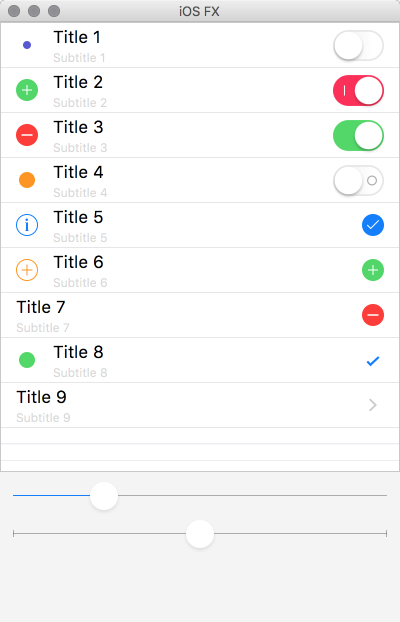
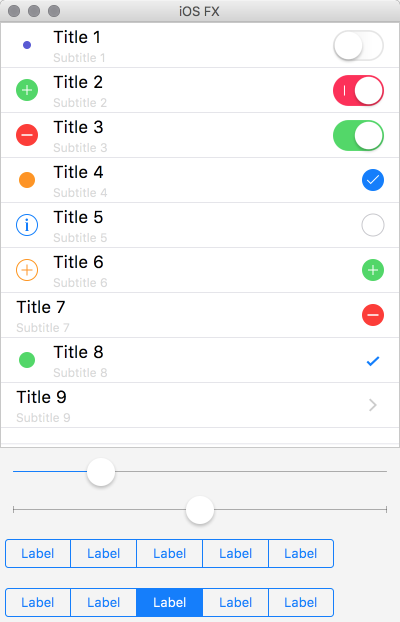
Added an IosSegmentedButtonBar

diff --git a/src/main/resources/eu/hansolo/iosfx/iossegmentedbuttonbar/ios-segmented-buttonbar.css b/src/main/resources/eu/hansolo/iosfx/iossegmentedbuttonbar/ios-segmented-buttonbar.css
@@ -1,0 +1,65 @@
+/*
+ * Copyright (c) 2018 by Gerrit Grunwald
+ *
+ * Licensed under the Apache License, Version 2.0 (the "License");
+ * you may not use this file except in compliance with the License.
+ * You may obtain a copy of the License at
+ *
+ *     http://www.apache.org/licenses/LICENSE-2.0
+ *
+ * Unless required by applicable law or agreed to in writing, software
+ * distributed under the License is distributed on an "AS IS" BASIS,
+ * WITHOUT WARRANTIES OR CONDITIONS OF ANY KIND, either express or implied.
+ * See the License for the specific language governing permissions and
+ * limitations under the License.
+ */
+
+ios-segmented-button-bar {
+    -blue: rgb(0, 122, 255);;
+}
+
+.ios-segmented-button-bar .button,
+.ios-segmented-button-bar .toggle-button {
+    -fx-text-fill        : rgb(0, 122, 255);
+    -fx-background-color : transparent;
+    -fx-background-insets: 0, 1 1 1 0, 2 1 1 1;
+    -fx-background-radius: 0;
+    -fx-padding          : 5 15 5 15;
+    -fx-border-color     : rgb(0, 122, 255) rgb(0, 122, 255) rgb(0, 122, 255) transparent;
+    -fx-border-width     : 1px;
+    -fx-border-radius    : 0;
+}
+
+.ios-segmented-button-bar .button.first,
+.ios-segmented-button-bar .toggle-button.first {
+    -fx-background-insets: 0, 1, 2 1 1 1;
+    -fx-background-radius: 3 0 0 3, 2 0 0 2, 2 0 0 2;
+    -fx-border-radius    : 3 0 0 3, 2 0 0 2, 2 0 0 2;
+    -fx-border-color     : rgb(0, 122, 255);
+}
+
+.ios-segmented-button-bar .button.last,
+.ios-segmented-button-bar .toggle-button.last {
+    -fx-background-insets: 0, 1 1 1 0, 2 1 1 1;
+    -fx-background-radius: 0 3 3 0, 0 2 2 0, 0 2 2 0;
+    -fx-border-radius    : 0 3 3 0, 0 2 2 0, 0 2 2 0;
+    -fx-border-insets    : 0 0 0 -1;
+}
+
+.ios-segmented-button-bar .button:pressed,
+.ios-segmented-button-bar .toggle-button:selected {
+    -fx-background-color: rgb(0, 122, 255);
+    -fx-text-fill       : white;
+}
+
+.tool-bar {
+    -fx-base             : black;
+    -fx-font-size        : 13px;
+    -fx-background-color : transparent;
+    -fx-background-insets: 0, 0 0 1 0;
+    -fx-effect           : null;
+}
+
+.tool-bar .spacer {
+    -fx-padding: 0 5.417em 0 0;
+}

diff --git a/src/main/resources/eu/hansolo/iosfx/iosslider/ios-slider.css b/src/main/resources/eu/hansolo/iosfx/iosslider/ios-slider.css
@@ -36,7 +36,7 @@
     -fx-background-radius: 1 1 1 1;
     -fx-padding          : 0.5px;
     -fx-border-color     : transparent -track-fill transparent -track-fill;
-    -fx-border           : 0 1 0 1;
+    /*-fx-border           : 0 1 0 1;*/
     -fx-border-width     : 1;
     -fx-border-insets    : -3 0 -3 0;
 
@@ -44,7 +44,7 @@
 .slider:balance:vertical .track {
     -fx-background-color: -track-fill;
     -fx-border-color    : transparent -track-fill transparent -track-fill;
-    -fx-border          : 1 0 1 0;
+    /*-fx-border          : 1 0 1 0;*/
     -fx-border-width    : 1;
     -fx-border-insets   : 0 -3 0 -3;
 }

diff --git a/src/main/java/eu/hansolo/iosfx/Demo.java b/src/main/java/eu/hansolo/iosfx/Demo.java
@@ -24,15 +24,20 @@ import eu.hansolo.iosfx.ioslistview.IosListView;
 import eu.hansolo.iosfx.iosmultibutton.IosMultiButton;
 import eu.hansolo.iosfx.iosmultibutton.IosMultiButton.Type;
 import eu.hansolo.iosfx.iosmultibutton.IosMultiButtonBuilder;
+import eu.hansolo.iosfx.iossegmentedbuttonbar.IosSegmentedButtonBar;
 import eu.hansolo.iosfx.iosslider.IosSlider;
 import eu.hansolo.iosfx.iosswitch.IosSwitch;
 import eu.hansolo.iosfx.iosswitch.IosSwitchBuilder;
 import javafx.application.Application;
 import javafx.collections.FXCollections;
 import javafx.collections.ObservableList;
+import javafx.geometry.Insets;
 import javafx.scene.Node;
 import javafx.scene.Scene;
+import javafx.scene.control.Button;
 import javafx.scene.control.Label;
+import javafx.scene.control.ToggleButton;
+import javafx.scene.control.ToggleGroup;
 import javafx.scene.layout.VBox;
 import javafx.scene.paint.Color;
 import javafx.stage.Stage;
@@ -52,13 +57,15 @@ public class Demo extends Application {
     private IosEntry                 entry9;
     private IosSlider                slider;
     private IosSlider                balanceSlider;
+    private IosSegmentedButtonBar    buttonBar1;
+    private IosSegmentedButtonBar    buttonBar2;
 
 
     @Override public void init() {
         entry1 = createIosEntry("Title 1", "Subtitle 1", createMultiButton(Type.SMALL_DOT, IosColor.PURPLE.color(), false), createSwitch(IosColor.PURPLE.color(), false), true, true);
         entry2 = createIosEntry("Title 2", "Subtitle 2", createMultiButton(Type.ADD, IosColor.GREEN.color(), false), createSwitch(IosColor.PINK.color(), true), true, false);
         entry3 = createIosEntry("Title 3", "Subtitle 3", createMultiButton(Type.DELETE, IosColor.RED.color(), false), createSwitch(IosColor.GREEN.color(), false), false, false);
-        entry4 = createIosEntry("Title 4", "Subtitle 4", createMultiButton(Type.DOT, IosColor.ORANGE.color(), false), createSwitch(IosColor.ORANGE.color(), true), false, true);
+        entry4 = createIosEntry("Title 4", "Subtitle 4", createMultiButton(Type.DOT, IosColor.ORANGE.color(), false), createMultiButton(Type.CHECKBOX, IosColor.GREEN.color(), true), false, true);
         entry5 = createIosEntry("Title 5", "Subtitle 5", createMultiButton(Type.INFO, IosColor.BLUE.color(), false), createMultiButton(Type.CHECKBOX, IosColor.GREEN.color(), false), false, false);
         entry6 = createIosEntry("Title 6", "Subtitle 6", createMultiButton(Type.PLUS, IosColor.ORANGE.color(), false), createMultiButton(Type.ADD, IosColor.GREEN.color(), false), false, false);
         entry7 = createIosEntry("Title 7", "Subtitle 7", null, createMultiButton(Type.DELETE, IosColor.GREEN.color(), false), false, false);
@@ -86,6 +93,32 @@ public class Demo extends Application {
         balanceSlider = new IosSlider();
         balanceSlider.setBalance(true);
 
+        Button button1 = new Button("Label");
+        Button button2 = new Button("Label");
+        Button button3 = new Button("Label");
+        Button button4 = new Button("Label");
+        Button button5 = new Button("Label");
+
+        buttonBar1 = new IosSegmentedButtonBar(button1, button2, button3, button4, button5);
+        buttonBar1.setPadding(new Insets(5));
+
+
+        ToggleButton toggleButton1 = new ToggleButton("Label");
+        ToggleButton toggleButton2 = new ToggleButton("Label");
+        ToggleButton toggleButton3 = new ToggleButton("Label");
+        ToggleButton toggleButton4 = new ToggleButton("Label");
+        ToggleButton toggleButton5 = new ToggleButton("Label");
+
+        ToggleGroup toggleGroup = new ToggleGroup();
+        toggleButton1.setToggleGroup(toggleGroup);
+        toggleButton2.setToggleGroup(toggleGroup);
+        toggleButton3.setToggleGroup(toggleGroup);
+        toggleButton4.setToggleGroup(toggleGroup);
+        toggleButton5.setToggleGroup(toggleGroup);
+
+        buttonBar2 = new IosSegmentedButtonBar(toggleButton1, toggleButton2, toggleButton3, toggleButton4, toggleButton5);
+        buttonBar2.setPadding(new Insets(5));
+
         registerListeners();
     }
 
@@ -95,7 +128,7 @@ public class Demo extends Application {
     }
 
     @Override public void start(Stage stage) {
-        VBox pane = new VBox(10, listView, slider, balanceSlider);
+        VBox pane = new VBox(10, listView, slider, balanceSlider, buttonBar1, buttonBar2);
         pane.setPrefSize(400, 600);
         //pane.setPadding(new Insets(10));
 

diff --git a/src/main/java/eu/hansolo/iosfx/iossegmentedbuttonbar/IosSegmentedButtonBar.java b/src/main/java/eu/hansolo/iosfx/iossegmentedbuttonbar/IosSegmentedButtonBar.java
@@ -1,0 +1,83 @@
+/*
+ * Copyright (c) 2018 by Gerrit Grunwald
+ *
+ * Licensed under the Apache License, Version 2.0 (the "License");
+ * you may not use this file except in compliance with the License.
+ * You may obtain a copy of the License at
+ *
+ *     http://www.apache.org/licenses/LICENSE-2.0
+ *
+ * Unless required by applicable law or agreed to in writing, software
+ * distributed under the License is distributed on an "AS IS" BASIS,
+ * WITHOUT WARRANTIES OR CONDITIONS OF ANY KIND, either express or implied.
+ * See the License for the specific language governing permissions and
+ * limitations under the License.
+ */
+
+package eu.hansolo.iosfx.iossegmentedbuttonbar;
+
+import javafx.collections.ListChangeListener;
+import javafx.scene.Node;
+import javafx.scene.layout.HBox;
+
+
+public class IosSegmentedButtonBar extends HBox {
+
+    public IosSegmentedButtonBar() {
+        super();
+        getStyleClass().add("ios-segmented-button-bar");
+
+        registerListeners();
+    }
+    public IosSegmentedButtonBar(final double SPACING) {
+        this();
+        setSpacing(0);
+    }
+    public IosSegmentedButtonBar(final Node... CHILDREN) {
+        super();
+        getChildren().addAll(CHILDREN);
+        getStyleClass().add("ios-segmented-button-bar");
+        adjustStyles();
+
+        registerListeners();
+    }
+    public IosSegmentedButtonBar(final double SPACING, final Node... CHILDREN) {
+        this();
+        setSpacing(0);
+        getChildren().addAll(CHILDREN);
+    }
+
+
+    private void registerListeners() {
+        spacingProperty().addListener(o -> setSpacing(0));
+
+        getChildren().addListener((ListChangeListener<Node>) CHANGE -> {
+            while (CHANGE.next()) {
+                if (CHANGE.wasAdded()) {
+                    adjustStyles();
+                } else if (CHANGE.wasRemoved()) {
+                    adjustStyles();
+                }
+            }
+        });
+    }
+
+    private void adjustStyles() {
+        if (getChildren().isEmpty()) { return; }
+        int noOfChildren = getChildren().size();
+        for (int i = 0 ; i < noOfChildren ; i++) {
+            Node node = getChildren().get(i);
+            if (node.getStyleClass().contains("first")) { node.getStyleClass().remove("first"); }
+            if (node.getStyleClass().contains("last")) { node.getStyleClass().remove("last"); }
+
+            if (i == 0) { node.getStyleClass().add("first"); }
+            if (i > 1 && i == noOfChildren - 1) { node.getStyleClass().add("last"); }
+        }
+    }
+
+
+    // ******************** Style related *************************************
+    @Override public String getUserAgentStylesheet() {
+        return IosSegmentedButtonBar.class.getResource("ios-segmented-buttonbar.css").toExternalForm();
+    }
+}
